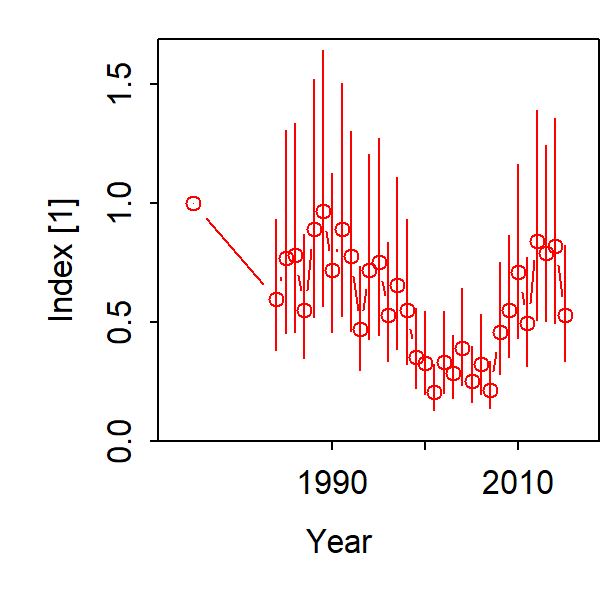
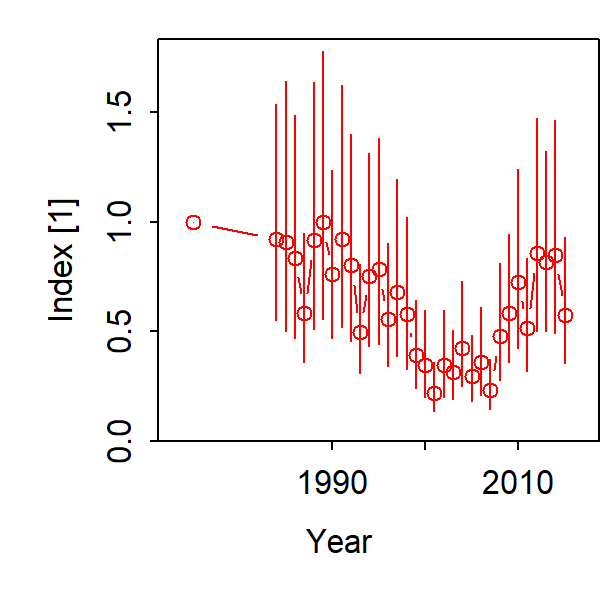
updates to surplus-production

diff --git a/docs/tutorials/surplus-production.md b/docs/tutorials/surplus-production.md
@@ -52,7 +52,6 @@ Inputs = fit_model( settings = settings,
   Lon_i = sampling_data[,'Lon'],
   b_i = sampling_data[,'Catch_KG'],
   a_i = sampling_data[,'AreaSwept_km2'],
-  v_i = as.numeric(sampling_data[,'Vessel']),
   t_i = sampling_data[,'Year'],
   F_ct = F_ct,
   build_model = FALSE )
@@ -71,14 +70,12 @@ fit = fit_model( settings = settings,
   Lon_i = sampling_data[,'Lon'],
   b_i = sampling_data[,'Catch_KG'],
   a_i = sampling_data[,'AreaSwept_km2'],
-  v_i = as.numeric(sampling_data[,'Vessel']),
   t_i = sampling_data[,'Year'],
   F_ct = F_ct,
   Map = Map,
   Parameters = Params,
   getsd = TRUE,
-  year_labels = c(1975, 1984:2015), 
-  use_new_epsilon = TRUE )
+  year_labels = c(1975, 1984:2015) )
 
 # Fix issue in auto-generated plot labels
 fit$years_to_plot = 1:length(fit$year_labels)  # Plot all years, not just years with samples
